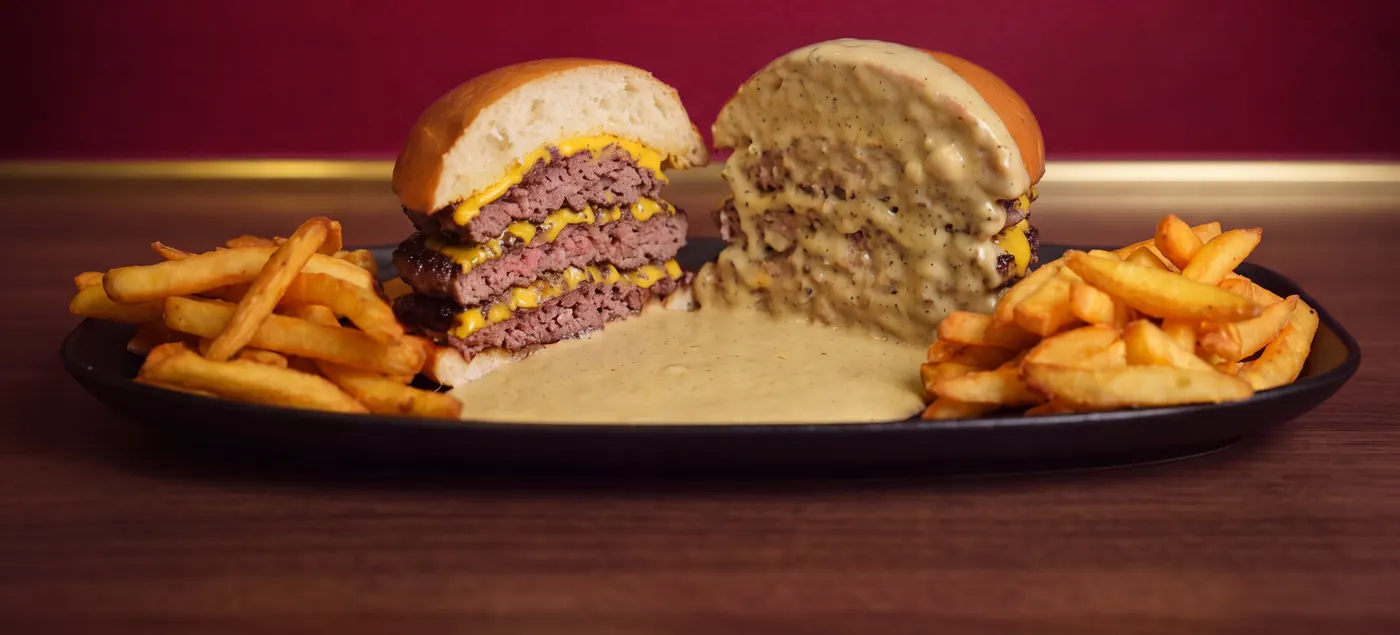
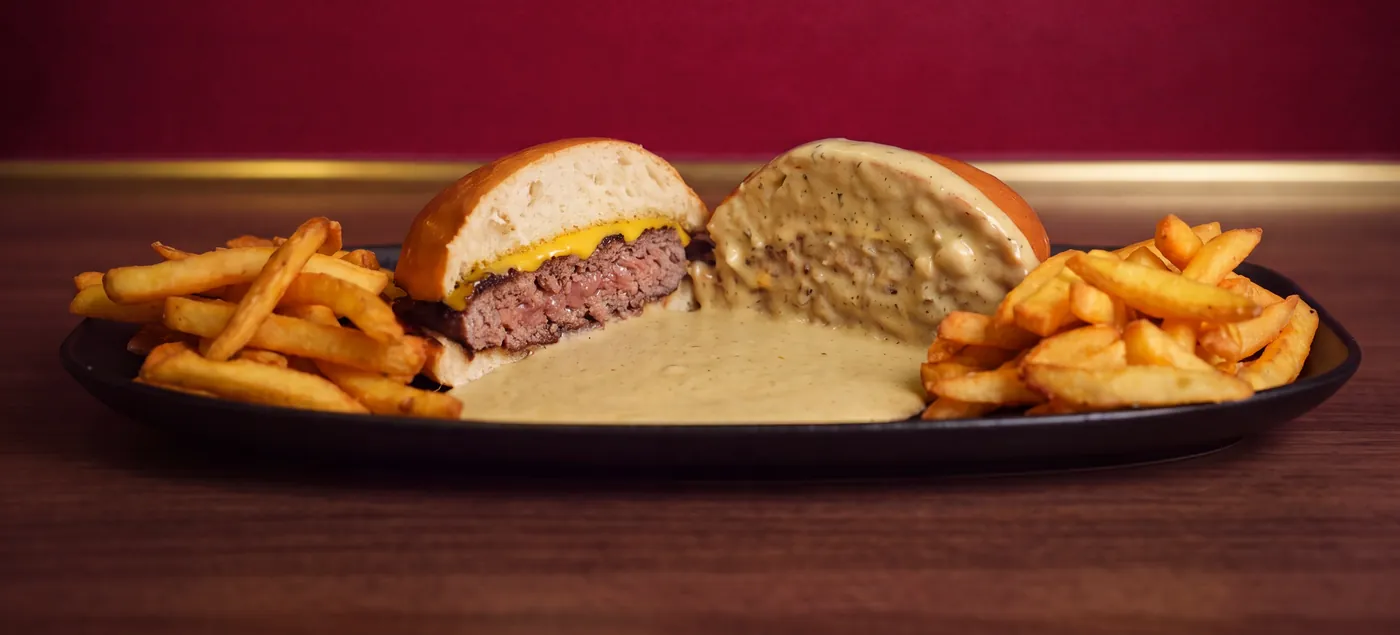
Démo APB : défilé des plats avec le burger au steak, fond tout bordeaux (#156)
* Skills : ajoute Hallmark (anti-AI slop, MIT) avec les règles Nouvelle Ardoise

Claude-Session: https://claude.ai/code/session_01GfNPGhMMwHk9JCBVJknyRy

* Démo APB : maquette d'accueil du site final, direction Brasserie claire (noindex)

Claude-Session: https://claude.ai/code/session_01GfNPGhMMwHk9JCBVJknyRy

* Démo APB site-b : ouverture sur le burger coupé dans la sauce, photos en brasserie, histoire officielle et adresses

Claude-Session: https://claude.ai/code/session_01GfNPGhMMwHk9JCBVJknyRy

* Démo APB site-b : Madrid en livraison, 3 lignes éditoriales (?edito=a|b|c), burger dégagé du texte

Claude-Session: https://claude.ai/code/session_01GfNPGhMMwHk9JCBVJknyRy

* Démo APB site-b : édito Rituel, fond Merlot, scroll image par image (63 vraies photos), barre des maisons, pop-up 200 burgers, carte smash/burgers/baguette

Claude-Session: https://claude.ai/code/session_01GfNPGhMMwHk9JCBVJknyRy

* Démo APB site-b : scroll immersif de A à Z (smash, fondu, montage, coupe, sauce), 127 vraies photos

Claude-Session: https://claude.ai/code/session_01GfNPGhMMwHk9JCBVJknyRy

* Démo APB site-b : scroll limité à la coupe (un seul cadrage) avec fondu vers la sauce

Claude-Session: https://claude.ai/code/session_01GfNPGhMMwHk9JCBVJknyRy

* Retire les images de la séquence A à Z

Claude-Session: https://claude.ai/code/session_01GfNPGhMMwHk9JCBVJknyRy

* Démo APB site-b : entrée immersive, caméra du monogramme doré en relief jusqu'au burger dans la sauce
[…]

Changed region(s): [[0.2457, 0.0598, 0.7679, 0.5685]]

diff --git a/public/demos/atelier-paris-burger/site-b/index.html b/public/demos/atelier-paris-burger/site-b/index.html
@@ -230,8 +230,8 @@ p{margin:0}
 
 
 /* Défilé des plats */
-.defile{position:relative;height:330vh;background:#640e22}
-.d-pin{position:sticky;top:0;height:100vh;height:100svh;overflow:hidden;background:linear-gradient(180deg,#5e0d20 0%,#7f1028 60%,#7a0f26 100%)}
+.defile{position:relative;height:330vh;background:#7f1028}
+.d-pin{position:sticky;top:0;height:100vh;height:100svh;overflow:hidden;background:#801329}
 .d-stage{position:absolute;inset:0}
 .d-stage figure{position:absolute;inset:0;margin:0;opacity:0;will-change:opacity,transform}
 .d-stage figure:first-child{opacity:1}
@@ -250,8 +250,8 @@ p{margin:0}
 .d-bar i{display:block;height:100%;width:0;background:var(--or)}
 @media (max-width:900px){
   .defile{height:300vh}
-  .d-stage{top:auto;height:52svh;bottom:0}
-  .d-stage img{object-position:50% 60%;-webkit-mask-image:linear-gradient(180deg,transparent 0,#000 22%);mask-image:linear-gradient(180deg,transparent 0,#000 22%)}
+  .d-stage{top:auto;height:56svh;bottom:0}
+  .d-stage img{object-position:50% 60%;-webkit-mask-image:linear-gradient(180deg,transparent 0,#000 10%);mask-image:linear-gradient(180deg,transparent 0,#000 10%)}
   .d-txt .btn{display:none}
 }
 @media (prefers-reduced-motion:reduce){
@@ -389,14 +389,14 @@ p{margin:0}
     <div class="d-pin">
       <div class="d-stage">
         <figure class="on"><picture><source media="(max-width:900px)" srcset="img/defile-smash-m.webp"><img src="img/defile-smash.webp" width="2400" height="1610" alt="Smash burger triple coupé, posé dans la sauce Café de Paris, frites de chaque côté" loading="lazy"></picture></figure>
-        <figure><picture><source media="(max-width:900px)" srcset="img/defile-burger-m.webp"><img src="img/defile-burger.webp" width="2400" height="1610" alt="Burger au steak épais coupé, posé dans la sauce Café de Paris, frites de chaque côté" loading="lazy"></picture></figure>
+        <figure><picture><source media="(max-width:900px)" srcset="img/defile-burger-m.webp"><img src="img/defile-burger.webp" width="2400" height="1610" alt="Burger au steak épais rosé, coupé et posé dans la sauce Café de Paris, frites de chaque côté" loading="lazy"></picture></figure>
         <figure><picture><source media="(max-width:900px)" srcset="img/defile-baguette-m.webp"><img src="img/defile-baguette.webp" width="2400" height="1610" alt="La baguette garnie de bœuf tranché et de sauce Café de Paris, avec ses frites" loading="lazy"></picture></figure>
       </div>
       <div class="d-txt wrap">
         <p class="d-num" aria-hidden="true"><b>01</b> / 03</p>
         <ol class="d-noms">
           <li class="on"><h2>Le smash.</h2><p>Simple, double ou triple. Bœuf smashé, cheddar, posé dans la sauce.</p></li>
-          <li><h2>Le burger.</h2><p>Le steak épais. Simple, double ou triple, posé dans la sauce.</p></li>
+          <li><h2>Le burger.</h2><p>Un steak épais, cuit rosé, posé dans la sauce.</p></li>
           <li><h2>La baguette.</h2><p>Croustillante, tartinée de sauce Café de Paris.</p></li>
         </ol>
         <a class="btn btn-or" href="#offert">Réserver mon burger offert</a>
